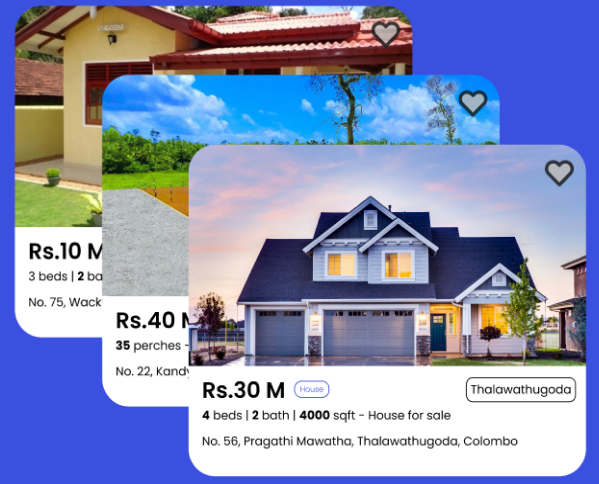
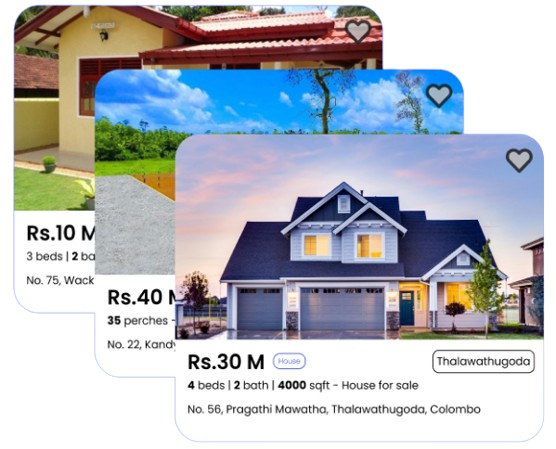
little optimization ui

diff --git a/frontend/src/components/HomeContent/HomeRecommendation.jsx b/frontend/src/components/HomeContent/HomeRecommendation.jsx
@@ -1,11 +1,15 @@
 'use client'
-import React, { useState, useEffect } from "react";
+import React, { useState, useEffect, useRef } from "react";
 import HeaderTypeTwo from "./HeaderTypeTwo.jsx";
 import Image from "next/image";
 import { Button } from "@/components/ui/button";
 
 function HomeRecommendation() {
   const [showHeader, setShowHeader] = useState(false);
+  const imageRef = useRef(null);
+  const textRef = useRef(null);
+  const [imageVisible, setImageVisible] = useState(false);
+  const [textVisible, setTextVisible] = useState(false);
 
   useEffect(() => {
     const handleScroll = () => {
@@ -28,6 +32,28 @@ function HomeRecommendation() {
     return () => window.removeEventListener('scroll', handleScroll);
   }, []);
 
+  useEffect(() => {
+    const handleIntersection = (entries, observer, setVisible) => {
+      entries.forEach(entry => {
+        if (entry.isIntersecting) {
+          setVisible(true);
+          observer.disconnect();
+        }
+      });
+    };
+
+    const imageObserver = new window.IntersectionObserver((entries, observer) => handleIntersection(entries, observer, setImageVisible), { threshold: 0.2 });
+    const textObserver = new window.IntersectionObserver((entries, observer) => handleIntersection(entries, observer, setTextVisible), { threshold: 0.2 });
+
+    if (imageRef.current) imageObserver.observe(imageRef.current);
+    if (textRef.current) textObserver.observe(textRef.current);
+
+    return () => {
+      imageObserver.disconnect();
+      textObserver.disconnect();
+    };
+  }, []);
+
   return (
     <div className="bg-main-blue min-h-screen flex flex-col items-center pt-12 pb-12 px-4 md:px-8 lg:px-12">
       {/* Header Section - Only show when scrolled past hero */}
@@ -44,12 +70,16 @@ function HomeRecommendation() {
       </div>
 
       {/* Main Content Section */}
-      <div className="flex flex-col items-center mt-12 w-full max-w-screen-xl">
+      <div className="flex flex-col items-center mt-12 w-full max-w-screen-xl gap-y-12 md:gap-y-16">
         <div className="flex flex-col md:flex-row justify-between items-center gap-8 md:gap-16 w-full">
           {/* Image Section */}
-          <div className="w-full md:w-1/2 flex justify-center md:justify-start items-center order-last md:order-none">
+          <div
+            ref={imageRef}
+            className={`w-full md:w-1/2 flex justify-center md:justify-start items-center order-last md:order-none transition-all duration-700 ease-out
+              ${imageVisible ? 'opacity-100 translate-y-0' : 'opacity-0 translate-y-8'}`}
+          >
             <Image
-              className="object-cover w-full h-auto rounded-lg"
+              className="object-cover w-full h-auto rounded-lg shadow-xl"
               src="/images/home-image/home-recommendation.png"
               alt="Home Page Image"
               width={600}
@@ -59,22 +89,26 @@ function HomeRecommendation() {
           </div>
 
           {/* Text Section */}
-          <div className="w-full md:w-1/2 flex flex-col justify-center items-center md:items-start text-center md:text-left order-first md:order-none">
+          <div
+            ref={textRef}
+            className={`w-full md:w-1/2 flex flex-col justify-center items-center md:items-start text-center md:text-left order-first md:order-none transition-all duration-700 ease-out
+              ${textVisible ? 'opacity-100 translate-y-0' : 'opacity-0 translate-y-8'}`}
+          >
             <div className="self-stretch flex flex-col justify-center items-center md:items-start gap-4">
               <div className="self-stretch flex flex-col justify-center items-center md:items-start pt-0">
                 <div className="w-full">
-                  <span className="text-[#ffe000] text-4xl sm:text-5xl md:text-6xl lg:text-7xl font-bold font-poppins leading-tight">
+                  <span className="text-[#ffe000] text-4xl sm:text-5xl md:text-6xl lg:text-7xl font-bold font-poppins leading-tight" style={{ textShadow: '2px 2px 8px rgba(0,0,0,0.25)' }}>
                     Explore
                   </span>
-                  <span className="text-black text-4xl sm:text-5xl md:text-6xl lg:text-7xl font-bold font-poppins leading-tight">
+                  <span className="text-black text-4xl sm:text-5xl md:text-6xl lg:text-7xl font-bold font-poppins leading-tight" style={{ textShadow: '2px 2px 8px rgba(0,0,0,0.15)' }}>
                     {" "}
                   </span>
                   <br className="block md:hidden"/>
-                  <span className="text-white text-4xl sm:text-5xl md:text-6xl lg:text-7xl font-bold font-poppins leading-tight">
+                  <span className="text-white text-4xl sm:text-5xl md:text-6xl lg:text-7xl font-bold font-poppins leading-tight" style={{ textShadow: '2px 2px 8px rgba(0,0,0,0.25)' }}>
                     Homes just{" "}
                   </span>
-                   <br className="block md:hidden"/>
-                  <span className="text-[#ffe000] text-4xl sm:text-5xl md:text-6xl lg:text-7xl font-bold font-poppins leading-tight">
+                  <br className="block md:hidden"/>
+                  <span className="text-[#ffe000] text-4xl sm:text-5xl md:text-6xl lg:text-7xl font-bold font-poppins leading-tight animate-fadeIn" style={{ textShadow: '2px 2px 8px rgba(0,0,0,0.25)' }}>
                     For you!
                   </span>
                 </div>

diff --git a/frontend/src/components/HomeContent/HomeBuySellRent.jsx b/frontend/src/components/HomeContent/HomeBuySellRent.jsx
@@ -12,11 +12,13 @@ const PropertyCard = ({
   buttonLink 
 }) => (
   <article 
-    className="w-full max-w-[280px] sm:max-w-sm mx-auto bg-white rounded-xl sm:rounded-2xl md:rounded-[38px] shadow-lg flex flex-col items-center justify-between p-3 sm:p-6 md:p-8 hover:border-2 hover:border-main-blue hover:bg-main-bg transition-all duration-300 hover:shadow-xl hover:-translate-y-1"
+    className="w-full max-w-[300px] sm:max-w-sm mx-auto bg-white/60 backdrop-blur-md rounded-2xl border border-main-blue/30 shadow-[0_2px_8px_0_rgba(0,0,0,0.08),0_8px_32px_0_rgba(0,123,255,0.10)] flex flex-col items-center justify-between p-4 sm:p-7 md:p-9 transition-all duration-300 hover:shadow-[0_4px_16px_0_rgba(0,0,0,0.10),0_16px_48px_0_rgba(0,123,255,0.18)] hover:-translate-y-2 hover:border-main-blue/70 group relative overflow-hidden"
     role="article"
   >
-    <div className="flex flex-col items-center space-y-3 sm:space-y-6">
-      <div className="relative w-[120px] h-[140px] sm:w-[160px] sm:h-[180px] md:w-[180px] md:h-[200px] transition-transform duration-300 hover:scale-105">
+    {/* Gradient border accent */}
+    <div className="absolute inset-0 rounded-2xl pointer-events-none border-2 border-transparent group-hover:border-main-blue/60 transition-all duration-300 z-0" />
+    <div className="flex flex-col items-center space-y-4 sm:space-y-7 z-10 relative">
+      <div className="relative w-[120px] h-[140px] sm:w-[160px] sm:h-[180px] md:w-[180px] md:h-[200px] transition-transform duration-300 group-hover:scale-110 group-hover:drop-shadow-[0_8px_24px_rgba(0,123,255,0.15)]">
         <Image
           src={imageSrc}
           fill
@@ -25,16 +27,16 @@ const PropertyCard = ({
           priority
         />
       </div>
-      <h3 className="text-center text-black text-lg sm:text-xl md:text-2xl font-bold font-poppins">
+      <h3 className="text-center text-black text-xl sm:text-2xl md:text-3xl font-extrabold font-poppins tracking-wide group-hover:text-main-blue transition-colors duration-300">
         {title}
       </h3>
-      <p className="text-center text-gray-600 text-xs sm:text-sm font-light font-poppins leading-relaxed max-w-[240px] sm:max-w-[280px]">
+      <p className="text-center text-gray-700 text-sm sm:text-base font-light font-poppins leading-relaxed max-w-[240px] sm:max-w-[280px]">
         {description}
       </p>
     </div>
-    <div className="w-full flex justify-center pt-3 sm:pt-6">
+    <div className="w-full flex justify-center pt-4 sm:pt-7 z-10 relative">
       <Button 
-        className="bg-white border-main-blue text-main-blue hover:bg-main-blue hover:text-white w-[200px] sm:w-52 font-bold border-2 transition-all duration-300 hover:shadow-md text-xs sm:text-base py-1.5 sm:py-2 h-8 sm:h-10"
+        className="bg-gradient-to-r from-main-blue/90 to-main-blue/60 text-white font-bold border-none shadow-md hover:from-main-blue hover:to-blue-400 w-[200px] sm:w-52 text-sm sm:text-base py-2 sm:py-2.5 h-10 sm:h-12 transition-all duration-300 group-hover:scale-105 group-hover:shadow-lg"
         aria-label={`${buttonText} - ${title}`}
       >
         <Link href={buttonLink} className="w-full h-full flex items-center justify-center">
@@ -75,7 +77,7 @@ function HomeBuySellRent() {
 
   return (
     <section 
-      className="bg-main-bg flex flex-col md:flex-row justify-center items-center gap-8 md:gap-6 lg:gap-8 py-12 sm:py-16 md:py-20 px-4 sm:px-6 md:px-8 lg:px-12"
+      className="bg-main-bg flex flex-col md:flex-row justify-center items-center gap-10 md:gap-8 lg:gap-12 py-14 sm:py-20 md:py-24 px-4 sm:px-8 md:px-12 lg:px-20"
       aria-label="Property services"
     >
       {propertyCards.map((card, index) => (

diff --git a/frontend/src/components/ui/button.tsx b/frontend/src/components/ui/button.tsx
@@ -1,3 +1,4 @@
+"use client"
 import * as React from "react";
 import { Slot } from "@radix-ui/react-slot";
 import { cva, type VariantProps } from "class-variance-authority";
@@ -37,20 +38,70 @@ export interface ButtonProps
   extends React.ButtonHTMLAttributes<HTMLButtonElement>,
     VariantProps<typeof buttonVariants> {
   asChild?: boolean;
+  ripple?: boolean;
 }
 
 const Button = React.forwardRef<HTMLButtonElement, ButtonProps>(
-  ({ className, variant, size, asChild = false, ...props }, ref) => {
+  ({ className, variant, size, asChild = false, ripple = true, ...props }, ref) => {
     const Comp = asChild ? Slot : "button";
+    const [ripples, setRipples] = React.useState<{ x: number; y: number; size: number; key: number }[]>([]);
+    const rippleCount = React.useRef(0);
+    const buttonRef = React.useRef<HTMLButtonElement>(null);
+
+    const handleClick = (e: React.MouseEvent<HTMLButtonElement, MouseEvent>) => {
+      if (ripple && buttonRef.current) {
+        const rect = buttonRef.current.getBoundingClientRect();
+        const size = Math.max(rect.width, rect.height);
+        const x = e.clientX - rect.left - size / 2;
+        const y = e.clientY - rect.top - size / 2;
+        setRipples((prev) => [
+          ...prev,
+          { x, y, size, key: rippleCount.current++ }
+        ]);
+      }
+      if (props.onClick) props.onClick(e);
+    };
+
+    React.useEffect(() => {
+      if (ripples.length > 0) {
+        const timeout = setTimeout(() => {
+          setRipples((prev) => prev.slice(1));
+        }, 500);
+        return () => clearTimeout(timeout);
+      }
+    }, [ripples]);
+
     return (
       <Comp
-        className={cn(buttonVariants({ variant, size, className }))}
-        ref={ref}
+        className={cn(buttonVariants({ variant, size, className }), "relative overflow-hidden")}
+        ref={(node: any) => {
+          if (!asChild) buttonRef.current = node;
+          if (typeof ref === "function") ref(node);
+          else if (ref) (ref as any).current = node;
+        }}
+        onClick={handleClick as any}
         {...props}
-      />
+      >
+        {props.children}
+        {ripple && (
+          <span className="absolute inset-0 pointer-events-none">
+            {ripples.map(({ x, y, size, key }) => (
+              <span
+                key={key}
+                className="absolute bg-main-blue/30 rounded-full animate-ripple"
+                style={{ left: x, top: y, width: size, height: size }}
+              />
+            ))}
+          </span>
+        )}
+      </Comp>
     );
   }
 );
 Button.displayName = "Button";
+
+// Add ripple animation to global styles if not present
+// .animate-ripple { animation: ripple 0.5s linear; }
+// @keyframes ripple { from { transform: scale(0); opacity: 0.7; } to { transform: scale(2); opacity: 0; } }
 
 export { Button, buttonVariants };

diff --git a/frontend/src/components/Header.jsx b/frontend/src/components/Header.jsx
@@ -5,6 +5,7 @@ import React, { useState } from "react";
 import { useSelector } from "react-redux";
 import { Menu, X } from "lucide-react";
 import Image from "next/image";
+import { usePathname } from "next/navigation";
 
 const NavItem = ({ children, isBold, onClick = () => {} }) => (
   <div 
@@ -22,6 +23,7 @@ const NavItem = ({ children, isBold, onClick = () => {} }) => (
 function Header() {
   const currentUser = useSelector((state) => state.user.currentUser);
   const [isMenuOpen, setIsMenuOpen] = useState(false);
+  const pathname = usePathname();
 
   const toggleMenu = () => {
     setIsMenuOpen(!isMenuOpen);
@@ -29,16 +31,16 @@ function Header() {
 
   const navItems = (
     <>
-      <NavItem>
-            <Link href={"/buy"}>Buy</Link>
-          </NavItem>
-          <NavItem>
-           <Link href={"rent"}> Rent</Link>
-            </NavItem>
-          <NavItem>
-            <Link href={"/sell"}>List</Link>
-          </NavItem>
-      <NavItem isBold={true}>
+      <NavItem isBold={pathname === "/buy"}>
+        <Link href={"/buy"}>Buy</Link>
+      </NavItem>
+      <NavItem isBold={pathname === "/rent"}>
+        <Link href={"/rent"}> Rent</Link>
+      </NavItem>
+      <NavItem isBold={pathname === "/sell"}>
+        <Link href={"/sell"}>List</Link>
+      </NavItem>
+      <NavItem isBold={pathname === "/"}>
         <Link href={"/"}>Home</Link>
       </NavItem>
       <NavItem>Help</NavItem>
@@ -76,16 +78,15 @@ function Header() {
 
         {/* Desktop Navigation */}
         <div className="hidden md:flex justify-start items-center gap-7">
-          <NavItem>
+          <NavItem isBold={pathname === "/buy"}>
             <Link href={"/buy"}>Buy</Link>
           </NavItem>
-          <NavItem>
-           <Link href={"rent"}> Rent</Link>
-            </NavItem>
-          <NavItem>
+          <NavItem isBold={pathname === "/rent"}>
+            <Link href={"/rent"}> Rent</Link>
+          </NavItem>
+          <NavItem isBold={pathname === "/sell"}>
             <Link href={"/sell"}>List</Link>
           </NavItem>
-        
         </div>
 
         {/* Logo - Centered on all screens */}
@@ -98,7 +99,7 @@ function Header() {
 
         {/* Desktop Auth/Profile Section */}
         <div className="hidden md:flex justify-start items-center gap-7">
-          <NavItem isBold={true}>
+          <NavItem isBold={pathname === "/"}>
             <Link href={"/"}>Home</Link>
           </NavItem>
           <NavItem>Help</NavItem>

diff --git a/frontend/src/components/SellPageContent/SellPageHeroSection.jsx b/frontend/src/components/SellPageContent/SellPageHeroSection.jsx
@@ -40,7 +40,7 @@ function SellPageHeroSection() {
         </div>
         <div className="flex justify-center items-center mt-6 sm:mt-8 md:mt-10 ">
           <Button
-            className="bg-transparent border-white text-white px-10 hover:bg-main-bg hover:text-black w-full sm:w-52 font-bold border-2 text-sm sm:text-base"
+            className="bg-transparent border-white text-white px-10 py-3 rounded-lg shadow-md hover:bg-main-bg hover:text-black hover:shadow-lg transition-all duration-200 w-full sm:w-52 font-bold border-2 text-sm sm:text-base"
             onClick={handlePostAdClickSell}
           >
             List for Sale
@@ -48,7 +48,7 @@ function SellPageHeroSection() {
         </div>
         <div className="flex justify-center items-center  sm:mt-4 md:mt-4 ">
           <Button
-            className="bg-transparent border-white text-white px-10 hover:bg-main-bg hover:text-black w-full sm:w-52 font-bold border-2 text-sm sm:text-base"
+            className="bg-transparent border-white text-white px-10 py-3 rounded-lg shadow-md hover:bg-main-bg hover:text-black hover:shadow-lg transition-all duration-200 w-full sm:w-52 font-bold border-2 text-sm sm:text-base"
             onClick={handlePostAdClickRent}
           >
             List for Rent

diff --git a/frontend/src/app/globals.css b/frontend/src/app/globals.css
@@ -127,3 +127,18 @@ body {
   opacity: 0;
   transform: translateY(-10px);
 }
+
+/* Ripple effect for Button component */
+.animate-ripple {
+  animation: ripple 0.5s linear;
+}
+@keyframes ripple {
+  from {
+    transform: scale(0);
+    opacity: 0.7;
+  }
+  to {
+    transform: scale(2);
+    opacity: 0;
+  }
+}
